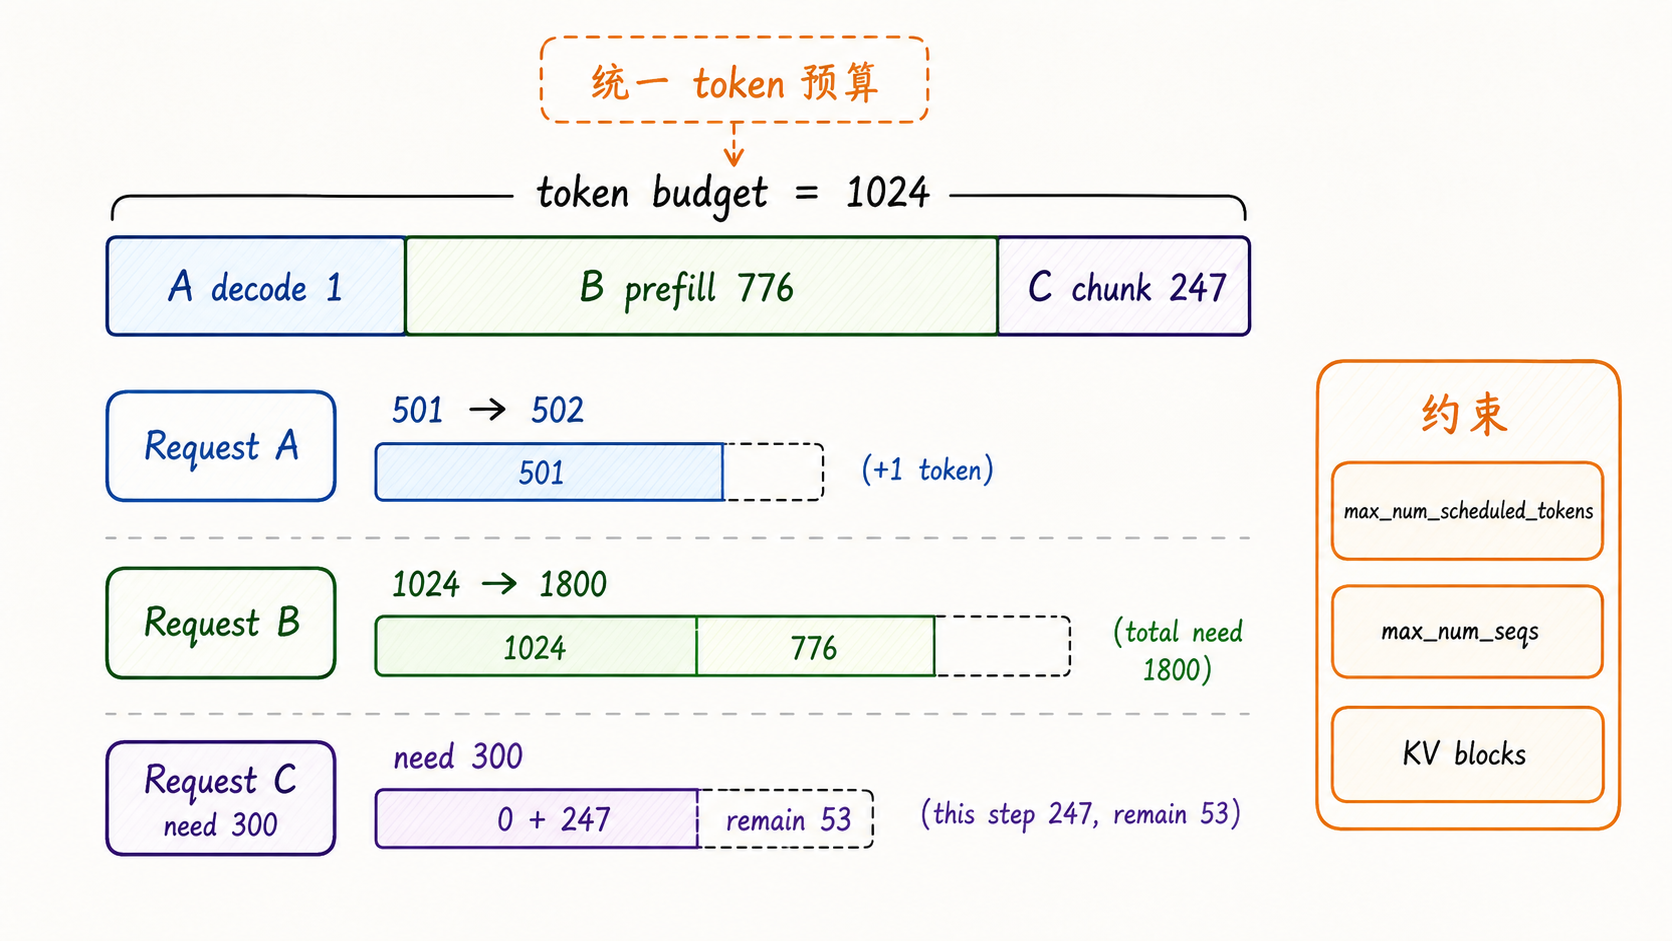
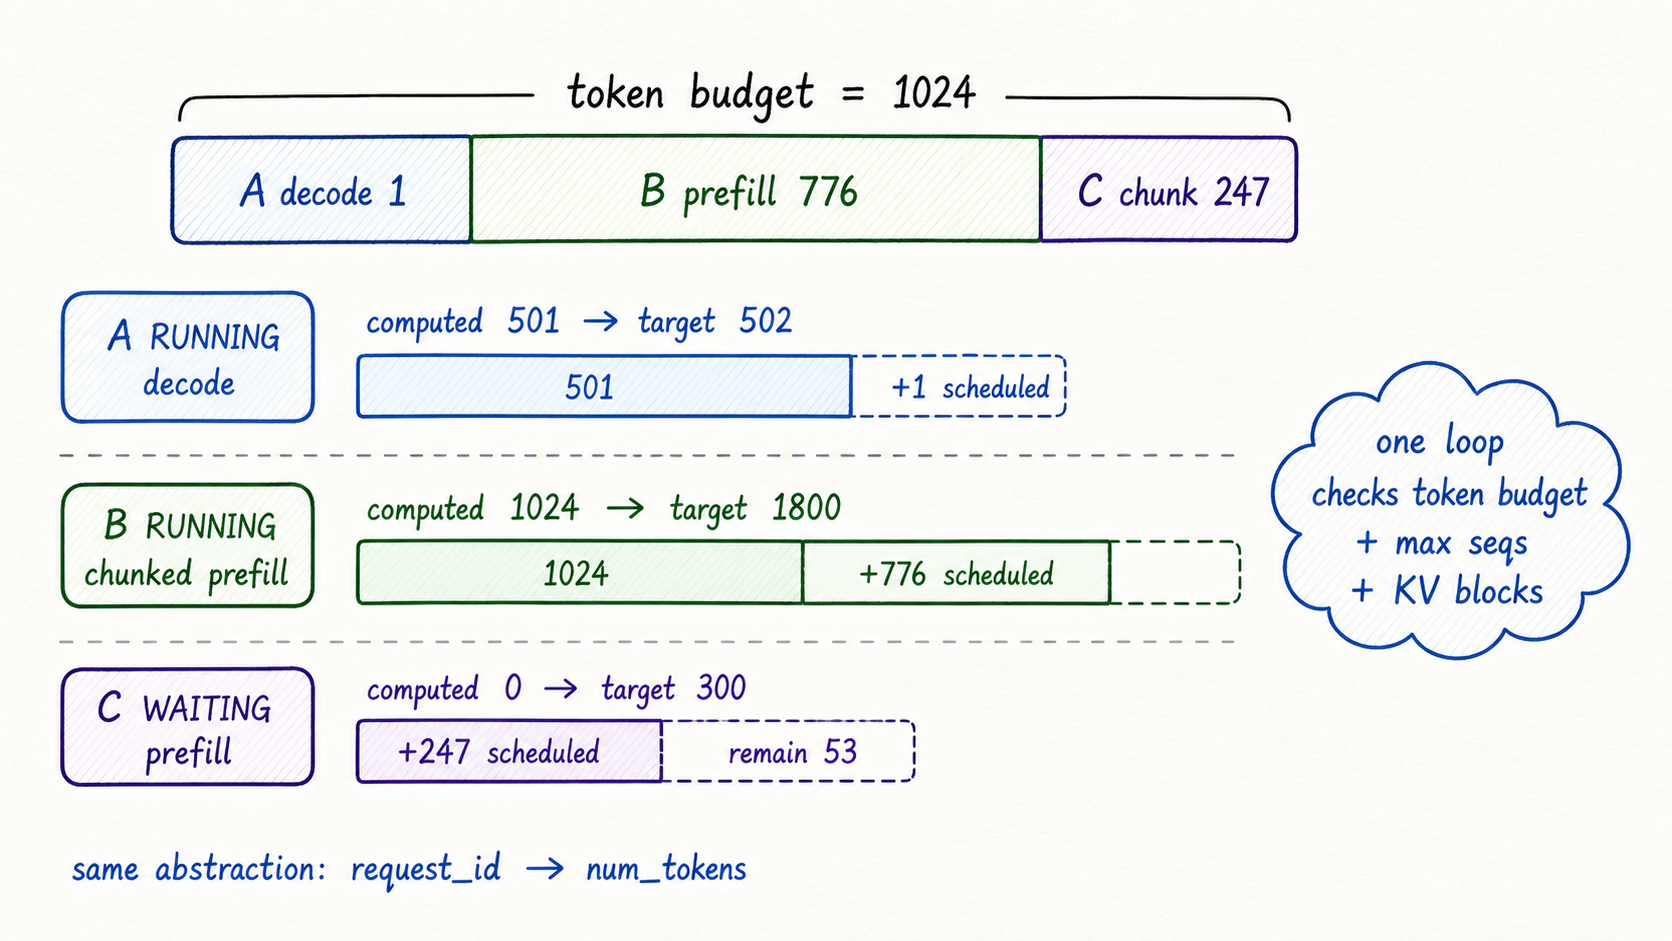
Polish vLLM scheduler tutorial

Changed region(s): [[0.0311, 0.0308, 0.9952, 0.9554], [0.5598, 0.8321, 0.7464, 0.8937], [0.311, 0.0308, 0.3421, 0.0616]]

diff --git a/notes/vLLM/vLLM架构与原理精讲系列/08_vLLM 控制面通信机制：从 EngineCoreClient 到 Executor RPC.md b/notes/vLLM/vLLM架构与原理精讲系列/08_vLLM 控制面通信机制：从 EngineCoreClient 到 Executor RPC.md
@@ -10,7 +10,7 @@ tags:
 updated: 2026-05-31
 description: 本文基于本地 vLLM V1 源码快照，系统拆解前端到 EngineCore、EngineCore 到 Worker 的控制面通信路径，说明 ZMQ、msgpack、collective_rpc、MessageQueue、output_rank 如何共同支撑一次推理控制流。
 ---
-【批注，1）正文不要滥用中文引号，确实需要强调的概念、判断或短句，优先使用加粗；2）控制小段落中的句号密度，能顺畅连接的解释用逗号、分号或重写句式承接，避免每个短句都被句号切碎；3）教程正文避免用作者撰文的过程说明去替代教学内容，不写类似 `接下来会`、`本文将` 这类让读者关心写作安排的句式；需要引导时直接写稳定的学习路径、对象关系或机制递进； 全文排查】
+【批注，1）正文不要滥用中文引号，确实需要强调的概念、判断或短句，优先使用加粗；2）控制小段落中的句号密度，能顺畅连接的解释用逗号、分号或重写句式承接，避免每个短句都被句号切碎；3）教程正文避免用作者撰文的过程说明去替代教学内容，不写类似 `接下来会`、`本文将` 这类让读者关心写作安排的句式；需要引导时直接写稳定的学习路径、对象关系或机制递进；4）避免段落用大量并列短句+分号的方式去呈现 全文排查】
 # 08 vLLM 控制面通信机制：从 EngineCoreClient 到 Executor RPC
 
 第 7 篇已经把 `Executor`、`Worker` 与 `ModelRunner` 的协同关系讲清楚了：`Scheduler` 产出 `SchedulerOutput`，`Executor` 把执行任务交给 worker，worker 内部的 `ModelRunner` 再把调度结果变成模型输入并返回 `ModelRunnerOutput`。

diff --git a/notes/vLLM/vLLM架构与原理精讲系列/07_Executor、Worker 与 ModelRunner 的协同执行与通信机制.md b/notes/vLLM/vLLM架构与原理精讲系列/07_Executor、Worker 与 ModelRunner 的协同执行与通信机制.md
@@ -10,7 +10,7 @@ tags:
 updated: 2026-05-31
 description: 本文基于本地 vLLM V1 源码快照，解释 SchedulerOutput 如何经由 Executor、Worker 与 ModelRunner 变成模型执行，并重点梳理控制面、数据面、rank 与 output_rank 的通信机制。
 ---
-【批注，1）正文不要滥用中文引号，确实需要强调的概念、判断或短句，优先使用加粗；2）控制小段落中的句号密度，能顺畅连接的解释用逗号、分号或重写句式承接，避免每个短句都被句号切碎；3）教程正文避免用作者撰文的过程说明去替代教学内容，不写类似 `接下来会`、`本文将` 这类让读者关心写作安排的句式；需要引导时直接写稳定的学习路径、对象关系或机制递进； 全文排查】
+【批注，1）正文不要滥用中文引号，确实需要强调的概念、判断或短句，优先使用加粗；2）控制小段落中的句号密度，能顺畅连接的解释用逗号、分号或重写句式承接，避免每个短句都被句号切碎；3）教程正文避免用作者撰文的过程说明去替代教学内容，不写类似 `接下来会`、`本文将` 这类让读者关心写作安排的句式；需要引导时直接写稳定的学习路径、对象关系或机制递进；4）避免段落用大量并列短句+分号的方式去呈现 全文排查】
 # 07 Executor、Worker 与 ModelRunner 的协同执行与通信机制
 
 前几章已经把 vLLM V1 的关键状态层讲到这里：`EngineCore` 是推理内循环，`Scheduler` 决定每一步哪些请求推进多少 token，`KVCacheManager` 管理 KV block 的 admission 与释放，async scheduling 试图让 CPU 调度和 GPU 执行重叠起来。
